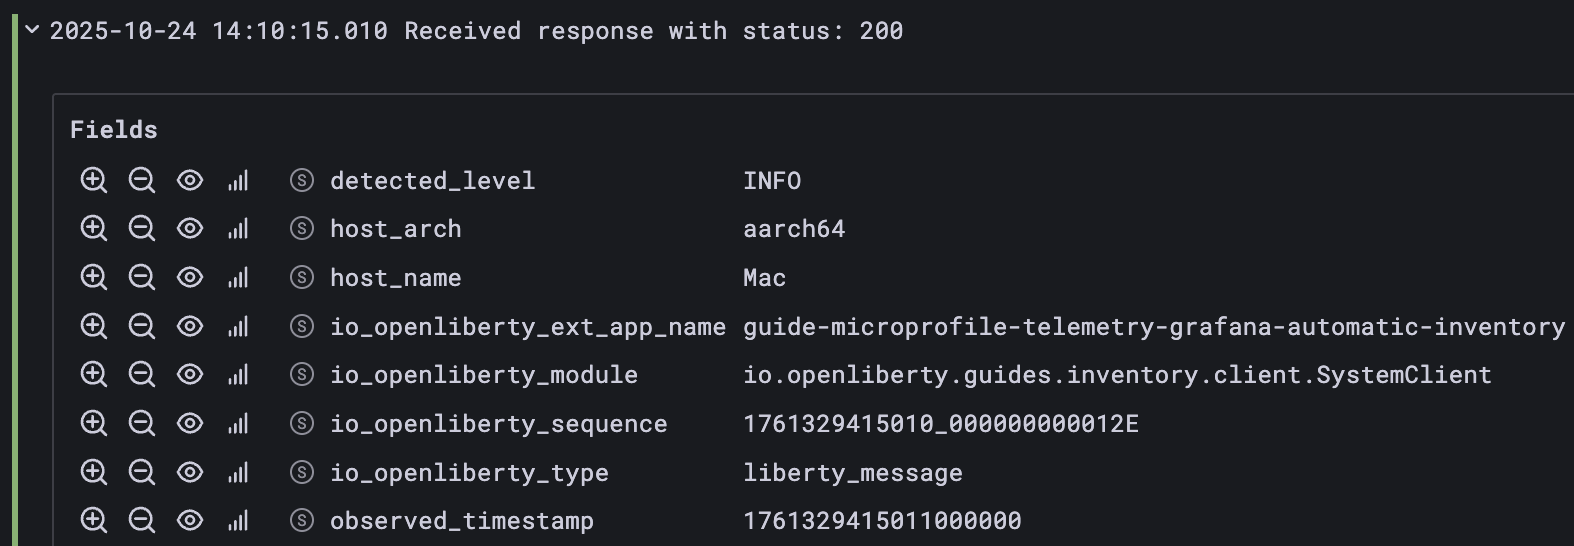
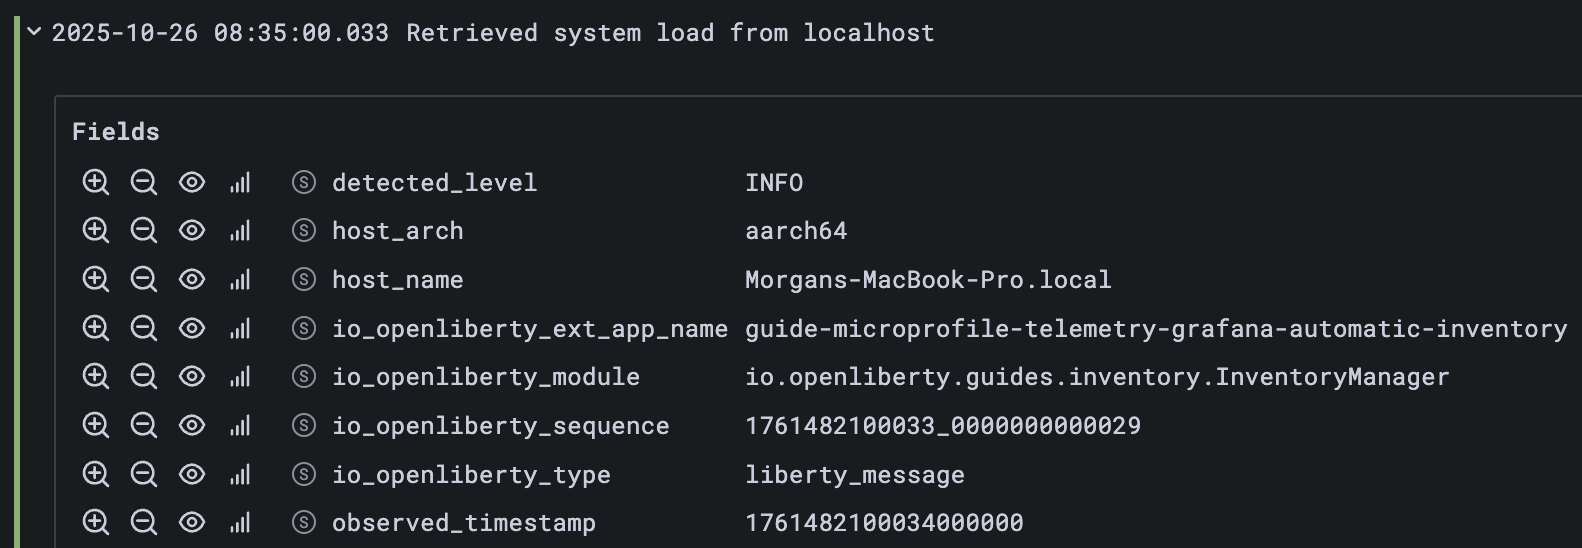
updated images, fixed issue with closing SystemClient

diff --git a/start/inventory/src/main/java/io/openliberty/guides/inventory/InventoryManager.java b/start/inventory/src/main/java/io/openliberty/guides/inventory/InventoryManager.java
@@ -38,12 +38,10 @@ public class InventoryManager {
 
     public JsonObject getSystemLoad(String hostname) {
         String uriString = "http://" + hostname + ":" + SYSTEM_PORT + "/system";
-        URI uri = null;
-        try {
-            uri = URI.create(uriString);
-            SystemClient client = RestClientBuilder.newBuilder()
-                                                .baseUri(uri)
-                                                .build(SystemClient.class);
+        try (SystemClient client = RestClientBuilder.newBuilder()
+                .baseUri(URI.create(uriString))
+                .build(SystemClient.class)) {
+
             JsonObject obj = client.getSystemLoad();
             // tag::out1[]
             System.out.println("Retrieved system load from " + hostname);

diff --git a/finish/inventory/src/main/java/io/openliberty/guides/inventory/InventoryManager.java b/finish/inventory/src/main/java/io/openliberty/guides/inventory/InventoryManager.java
@@ -45,12 +45,10 @@ public class InventoryManager {
 
     public JsonObject getSystemLoad(String hostname) {
         String uriString = "http://" + hostname + ":" + SYSTEM_PORT + "/system";
-        URI uri = null;
-        try {
-            uri = URI.create(uriString);
-            SystemClient client = RestClientBuilder.newBuilder()
-                                                .baseUri(uri)
-                                                .build(SystemClient.class);
+        try (SystemClient client = RestClientBuilder.newBuilder()
+                .baseUri(URI.create(uriString))
+                .build(SystemClient.class)) {
+
             JsonObject obj = client.getSystemLoad();
             // tag::log1[]
             LOGGER.log(Level.INFO,
